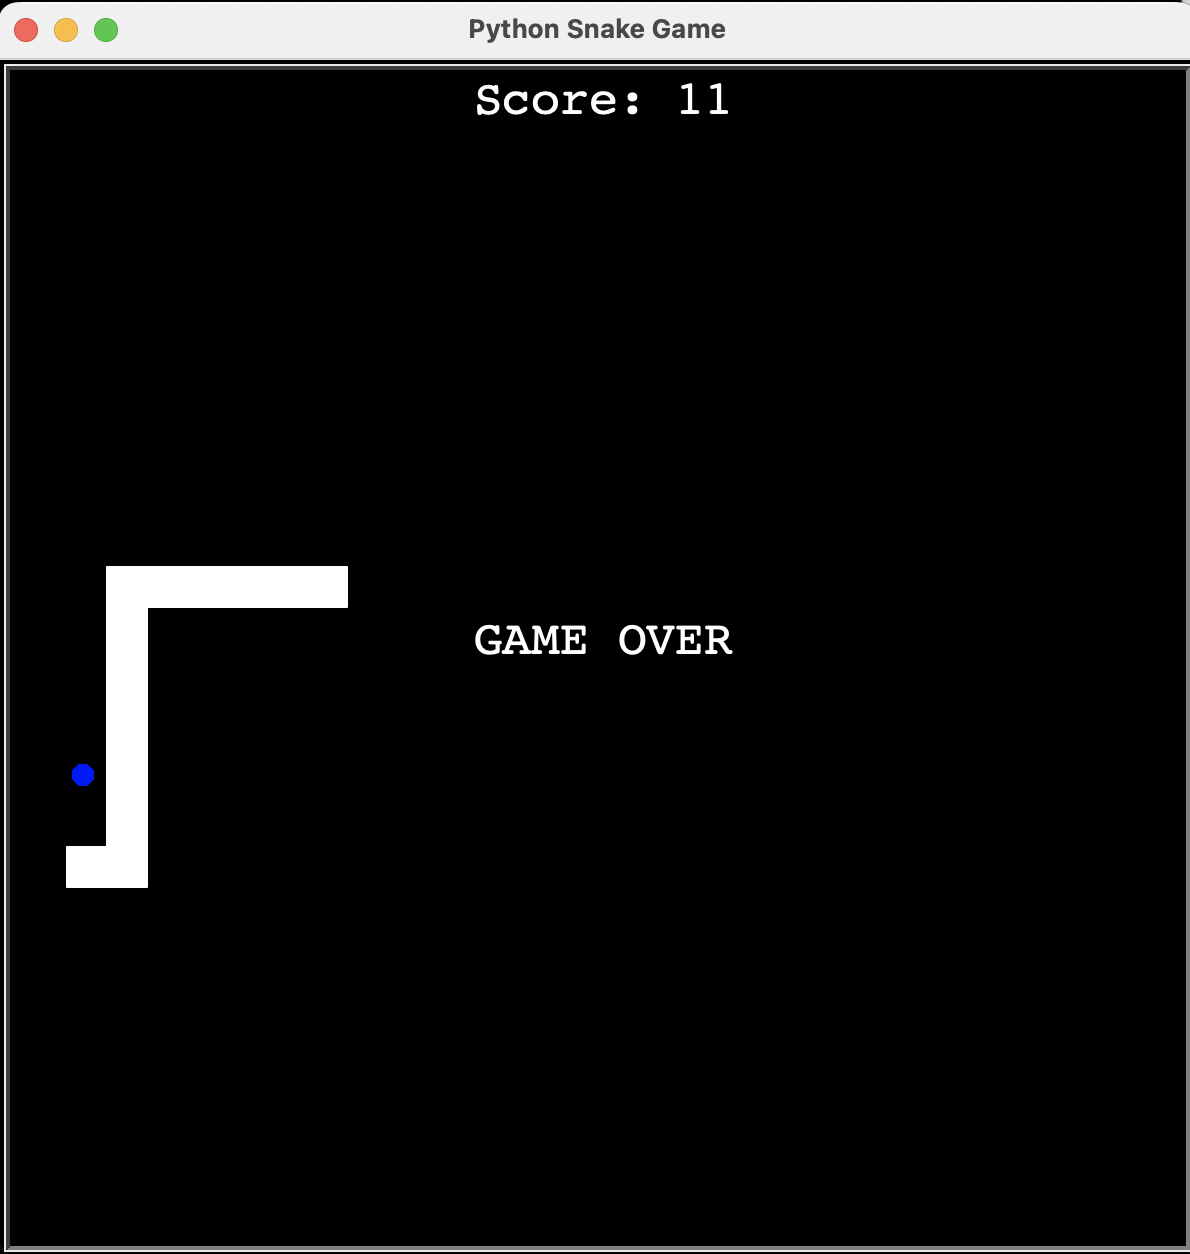
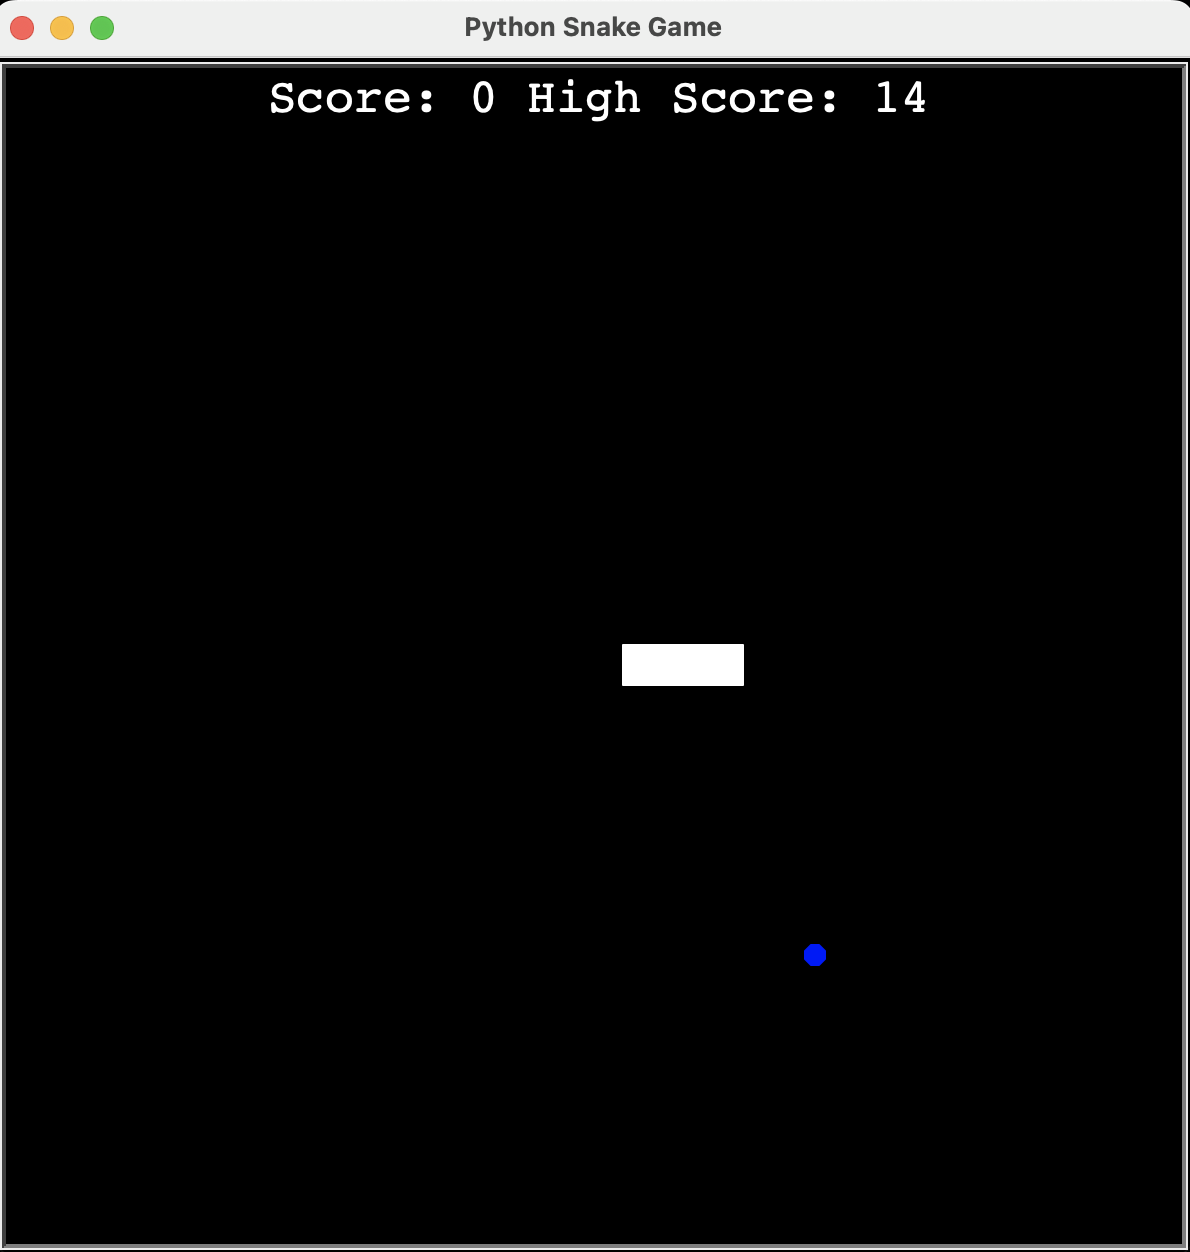
added high score tracking by writing to text file, updated README

Changed region(s): [[0.0, 0.0, 1.0, 1.0], [0.4042, 0.4984, 0.6218, 0.5607], [0.6529, 0.7476, 0.7151, 0.7788]]

diff --git a/scoreboard.py b/scoreboard.py
@@ -7,7 +7,8 @@ class Scoreboard(Turtle):
     def __init__(self):
         super().__init__()
         self.score = 0
-        self.high_score = 0
+        with open("data.txt") as data:
+           self.high_score = int(data.read())
         self.color("white")
         self.penup()
         self.goto(0, 270)
@@ -25,6 +26,8 @@ class Scoreboard(Turtle):
     def reset(self):
         if self.score > self.high_score:
             self.high_score = self.score
+            with open("data.txt", mode="w") as data:
+                data.write(f"{self.high_score}")
         self.score = 0
         self.update_scoreboard()
 
